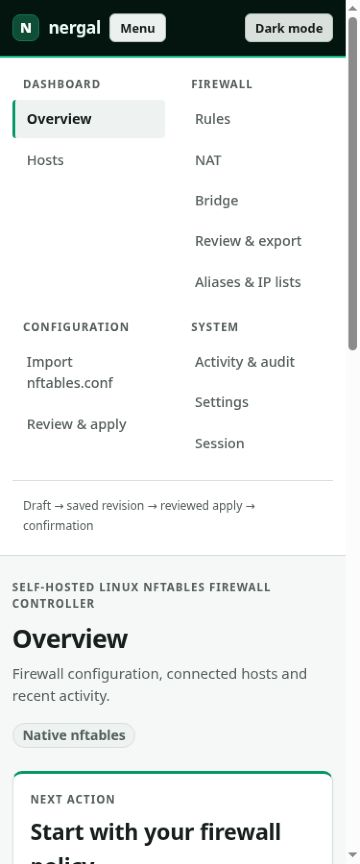
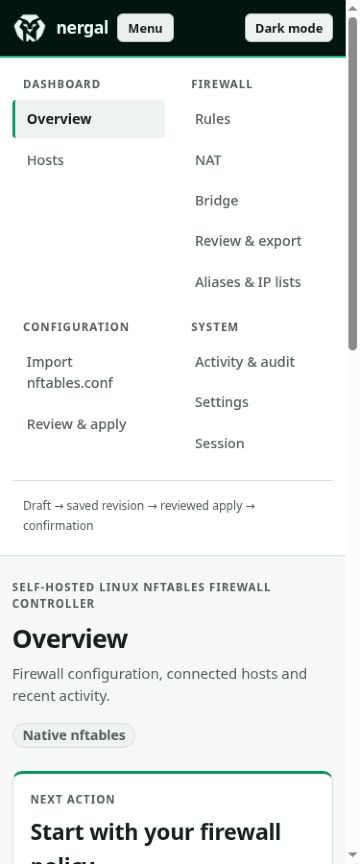
Adopt Guardian branding across sign-in, application and Pages

Changed region(s): [[0.0306, 0.0, 0.4889, 0.0625], [0.7944, 0.0312, 0.825, 0.0625]]

diff --git a/pages/assets/application.css b/pages/assets/application.css
@@ -259,17 +259,30 @@ pre {
   text-decoration: none;
 }
 
-.brand-mark {
-  width: 28px;
-  height: 28px;
-  border-radius: 8px;
-  background: linear-gradient(135deg, var(--primary), #1e40af);
-  color: #fff;
-  display: inline-flex;
+.guardian-mark {
+  display: inline-block;
+  width: 36px;
+  height: 36px;
+  flex: 0 0 auto;
+  background-color: currentColor;
+  mask: url("../brand/guardian.png") center / contain no-repeat;
+  -webkit-mask: url("../brand/guardian.png") center / contain no-repeat;
+}
+
+.sign-in-brand {
+  display: flex;
+  flex-direction: column;
   align-items: center;
-  justify-content: center;
-  font-weight: 800;
-  font-size: 0.9rem;
+  gap: .25rem;
+  margin-bottom: 1.5rem;
+  color: var(--link, var(--primary));
+}
+
+.sign-in-brand .guardian-mark { width: 144px; height: 144px; }
+.sign-in-wordmark { font-size: 2rem; font-weight: 750; letter-spacing: -.04em; line-height: 1.2; }
+
+@media (forced-colors: active) {
+  .guardian-mark { background-color: CanvasText; }
 }
 
 .nav-links {
@@ -758,7 +771,6 @@ details.disclosure summary {
 .topbar { background: #041510; border-bottom: 2px solid #10b981; color: #ecfdf5; }
 .topbar .brand, .topbar .nav-link { color: #ecfdf5; }
 .topbar .nav-link:hover, .topbar .nav-link.active { background: #0f4d36; color: #fff; }
-.brand-mark { background: #0f4d36; border: 1px solid #167756; }
 :root[data-accent="emerald"] { --primary: #0f4d36; --primary-hover: #126247; --primary-soft: #10b9811a; --link: #0f4d36; }
 :root[data-theme="dark"] { color-scheme: dark; --text-subtle: #b2bdb7; --link: #6ee7b7; }
 :root[data-theme="light"] { color-scheme: light; --link: #0f4d36; }

diff --git a/src/Nergal.Web/wwwroot/css/nergal.css b/src/Nergal.Web/wwwroot/css/nergal.css
@@ -259,17 +259,30 @@ pre {
   text-decoration: none;
 }
 
-.brand-mark {
-  width: 28px;
-  height: 28px;
-  border-radius: 8px;
-  background: linear-gradient(135deg, var(--primary), #1e40af);
-  color: #fff;
-  display: inline-flex;
+.guardian-mark {
+  display: inline-block;
+  width: 36px;
+  height: 36px;
+  flex: 0 0 auto;
+  background-color: currentColor;
+  mask: url("../brand/guardian.png") center / contain no-repeat;
+  -webkit-mask: url("../brand/guardian.png") center / contain no-repeat;
+}
+
+.sign-in-brand {
+  display: flex;
+  flex-direction: column;
   align-items: center;
-  justify-content: center;
-  font-weight: 800;
-  font-size: 0.9rem;
+  gap: .25rem;
+  margin-bottom: 1.5rem;
+  color: var(--link, var(--primary));
+}
+
+.sign-in-brand .guardian-mark { width: 144px; height: 144px; }
+.sign-in-wordmark { font-size: 2rem; font-weight: 750; letter-spacing: -.04em; line-height: 1.2; }
+
+@media (forced-colors: active) {
+  .guardian-mark { background-color: CanvasText; }
 }
 
 .nav-links {
@@ -758,7 +771,6 @@ details.disclosure summary {
 .topbar { background: #041510; border-bottom: 2px solid #10b981; color: #ecfdf5; }
 .topbar .brand, .topbar .nav-link { color: #ecfdf5; }
 .topbar .nav-link:hover, .topbar .nav-link.active { background: #0f4d36; color: #fff; }
-.brand-mark { background: #0f4d36; border: 1px solid #167756; }
 :root[data-accent="emerald"] { --primary: #0f4d36; --primary-hover: #126247; --primary-soft: #10b9811a; --link: #0f4d36; }
 :root[data-theme="dark"] { color-scheme: dark; --text-subtle: #b2bdb7; --link: #6ee7b7; }
 :root[data-theme="light"] { color-scheme: light; --link: #0f4d36; }

diff --git a/pages/index.html b/pages/index.html
@@ -15,7 +15,7 @@
   <header class="topbar docs-topbar">
     <div class="topbar-inner">
       <a class="brand" href="#/" aria-label="nergal documentation home">
-        <span class="brand-mark" aria-hidden="true">N</span><span>nergal</span>
+        <span class="guardian-mark" aria-hidden="true"></span><span>nergal</span>
       </a>
       <nav class="nav-links" aria-label="Primary navigation">
         <a class="nav-link" href="#/">Overview</a>

diff --git a/scripts/pages_assets.py b/scripts/pages_assets.py
@@ -1,5 +1,5 @@
 #!/usr/bin/env python3
-"""Keep the documentation portal's shared application styles and theme initialization identical."""
+"""Keep the documentation portal's shared application styles, theme initialization and branding identical."""
 import argparse
 from pathlib import Path
 
@@ -7,6 +7,7 @@ ROOT = Path(__file__).resolve().parent.parent
 ASSETS = {
     'src/Nergal.Web/wwwroot/css/nergal.css': 'pages/assets/application.css',
     'src/Nergal.Web/wwwroot/js/theme.js': 'pages/assets/theme.js',
+    'src/Nergal.Web/wwwroot/brand/guardian.png': 'pages/brand/guardian.png',
 }
 
 
@@ -23,12 +24,13 @@ def main():
     args = parser.parse_args()
     if not args.check:
         for source, target in ASSETS.items():
+            (ROOT / target).parent.mkdir(parents=True, exist_ok=True)
             (ROOT / target).write_bytes((ROOT / source).read_bytes())
     errors = verify_shared_assets()
     if errors:
         print('\n'.join(errors))
         return 1
-    print('PASS: Pages application stylesheet and theme initialization are identical.')
+    print('PASS: Pages application styles, theme initialization and branding are identical.')
     return 0
 
 

diff --git a/scripts/verify-pages.py b/scripts/verify-pages.py
@@ -16,6 +16,7 @@ REQUIRED_FILES = [
     "_navbar.md",
     "assets/nergal-theme.css",
     "assets/application.css",
+    "brand/guardian.png",
     "assets/theme.js",
     "assets/portal.js",
     "architecture.md",
@@ -85,6 +86,8 @@ REQUIRED_FILES = [
     "appliance-console.md",
     "assets/screenshots/console-overview-dark.jpg",
     "assets/screenshots/console-sign-in-light.jpg",
+    "assets/screenshots/console-sign-in-dark.jpg",
+    "assets/screenshots/console-sign-in-mobile.jpg",
     "assets/screenshots/console-rules-light.jpg",
     "assets/screenshots/console-mobile.jpg",
     "assets/screenshots/console-navigation-mobile.jpg",

diff --git a/docs/appliance-console.md b/docs/appliance-console.md
@@ -14,6 +14,15 @@ protection and fixed local redirects.
 
 ![Console sign-in before authentication](../pages/assets/screenshots/console-sign-in-light.jpg)
 
+[Dark sign-in](../pages/assets/screenshots/console-sign-in-dark.jpg) and
+[mobile sign-in](../pages/assets/screenshots/console-sign-in-mobile.jpg) show the same layout in the other supported presentations.
+
+The selected **Guardian** mark appears in the application and documentation
+headers, and is centered above the sign-in form with the Nergal wordmark. The
+same transparent silhouette uses theme colors for light/dark contrast. The
+centered sign-in footer shows `Nergal Firewall Management - TZ: <timezone>` using
+the browser timezone. Branding assets are local; no external image host is used.
+
 ## Find a task
 
 | Sidebar | Purpose |

diff --git a/pages/appliance-console.md b/pages/appliance-console.md
@@ -14,6 +14,15 @@ protection and fixed local redirects.
 
 ![Console sign-in before authentication](assets/screenshots/console-sign-in-light.jpg)
 
+[Dark sign-in](assets/screenshots/console-sign-in-dark.jpg) and
+[mobile sign-in](assets/screenshots/console-sign-in-mobile.jpg) show the same layout in the other supported presentations.
+
+The selected **Guardian** mark appears in the application and documentation
+headers, and is centered above the sign-in form with the Nergal wordmark. The
+same transparent silhouette uses theme colors for light/dark contrast. The
+centered sign-in footer shows `Nergal Firewall Management - TZ: <timezone>` using
+the browser timezone. Branding assets are local; no external image host is used.
+
 ## Find a task
 
 | Sidebar | Purpose |
